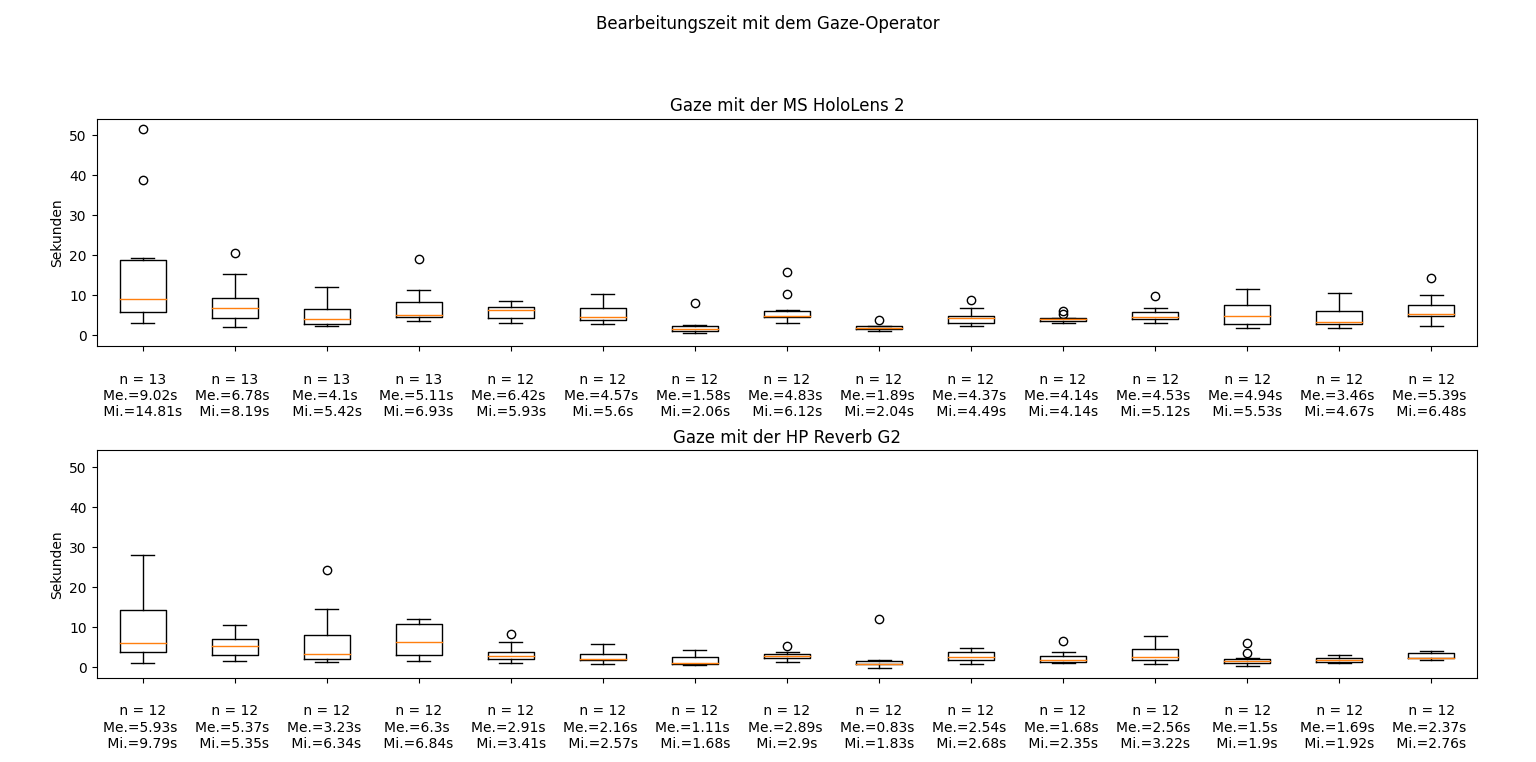
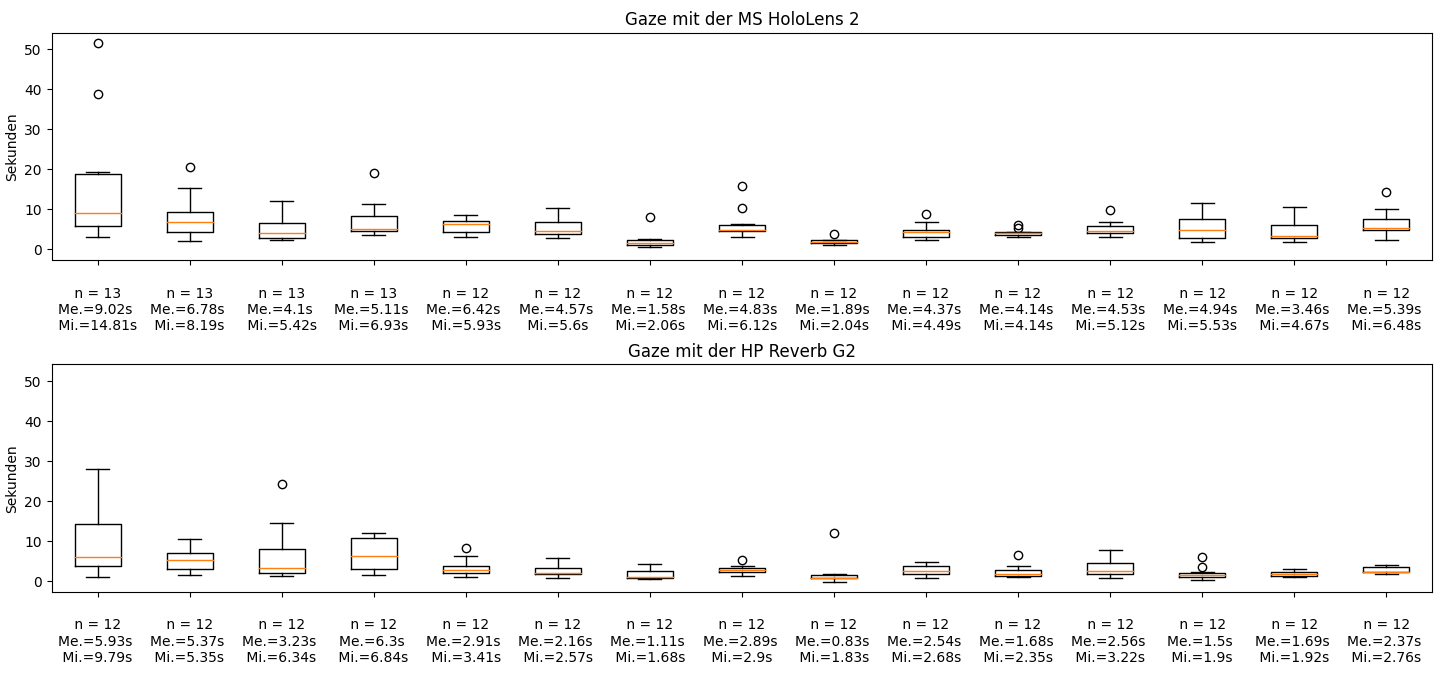
new entries for readme

diff --git a/ILM_WS202223/scene_Gaze/MQ_gaze_Times.py b/ILM_WS202223/scene_Gaze/MQ_gaze_Times.py
@@ -87,17 +87,6 @@ def runAnalyzeGeneric(probands, sceneName, devices, hand, fromElement, toElement
     return allData
 
 
-def aggregateDataOneDimension(array):
-    lenArray = len(array)
-    print("Len array " + str(lenArray))
-    data = []
-
-    for i in range(0, lenArray):
-        for elem in array[i]:
-            data.append(elem)
-
-    return data;
-
 def aggregateData(array):
     lenArray = len(array)
     print("Len array " + str(lenArray))
@@ -174,55 +163,10 @@ def runAnalyzeElementSteps(probands, sceneName, devices, hand):
 # This is added so that many files can reuse the function get_database()
 def boxplotCap(valArray):
     return f'\n n = {len(valArray)} \n' \
-           f'Median ={round(statistics.median(valArray), 3)} s \n ' \
-           f'Mittelwert ={round(statistics.mean(valArray), 3)} s \n '\
-            f'S. Abw. = {round(statistics.stdev(valArray), 3)} s \n ' \
-            f'M. Abw. = {round(mean(valArray), 3)} s \n ' \
-           f'1Q = {round(np.percentile(valArray, 25), 3)} s \n' \
-           f'3Q = {round(np.percentile(valArray, 75), 3)} s ';
-
-
-def convertToFloat(arr):
-
-    arr = arr.get('values')
-
-    print(arr)
-
-    arr = list(arr)
-    lenArray = len(arr)
-
-    print(lenArray)
-
-    allValues = []
-
-    for e in range(0, lenArray):
-        floatValues = []
-
-        for elem in arr[e]:
-            floatValues.append(float(elem))
-
-        allValues.append(floatValues)
-
-    return allValues
-
-def setXTicks_param(valArray, descArray):
-    xtick = []
-    i = 0
-
-    # The descirption of fields
-    for elem in valArray:
-        s = boxplotCap(elem)
-        xtick.append(descArray[i] + "\n" + s)
-        i = i + 1
-
-    lenVA = len(valArray)
-
-    # First Parameter the number of fields
-    elements = []
-    for elem in range(0, lenVA):
-        elements.append((elem + 1))
-
-    return (elements, xtick)
+           f'Me.={round(statistics.median(valArray), 3)} s \n ' \
+           f'Mi.={round(statistics.mean(valArray), 3)} s \n ';
+    # f'S. Abweichung = {round(statistics.stdev(valArray), 3)} s \n ' \
+    # f'M. Abweichung = {round(mean(valArray), 3)} s \n ';
 
 
 if __name__ == "__main__":
@@ -230,98 +174,66 @@ if __name__ == "__main__":
     dbname = get_database()
 
     col = dbname["uwp"]
-    tresor = dbname["tresor"]
 
     probands = ['A01', 'A02', 'A03', 'A05', 'A06', 'A07', 'A08', 'A09', 'A10', 'A11', 'A12',
                 'A13', 'A14', 'A15', 'A16', 'A17', 'A18',
                 'A19', 'A20', 'A21', 'A22', 'A23', 'A24', 'A25', 'A26', 'A27', 'A28']
+    print(probands)
 
     sceneName = 'ILM_Gaze'
     devices = ['HPG2']
     hand = 'Generic'
-    # sceneGaze_HPG2 = runAnalyzeElementSteps(probands, sceneName, devices, hand)
-    sceneGaze_HPG2 = tresor.find_one({'name': 'Gaze_UWP_HPG2'})
-    #print(sceneGaze_HPG2.get('values'))
-    sceneGaze_HPG2 = convertToFloat(sceneGaze_HPG2)
+    sceneGaze_HPG2 = runAnalyzeElementSteps(probands, sceneName, devices, hand)
+    writeToDb('Gaze_UWP_HPG2', sceneGaze_HPG2)
 
-    print("Länge")
-    print(len(sceneGaze_HPG2))
-
-    sceneGaze_HPG2_first = [sceneGaze_HPG2[0], sceneGaze_HPG2[1]]
-    sceneGaze_HPG2_second = []
-
-    for e in range(2, len(sceneGaze_HPG2)):
-        sceneGaze_HPG2_second.append(sceneGaze_HPG2[e])
-
-
-
-    sceneGaze_HPG2_first = aggregateData(sceneGaze_HPG2_first)
-    sceneGaze_HPG2_second = aggregateData(sceneGaze_HPG2_second)
-
-    print("second")
-    print(sceneGaze_HPG2_second)
-
-    writeToDb("Gaze_UWP_HPG2_first", sceneGaze_HPG2_first)
-
-    writeToDb("Gaze_UWP_HPG2_second", sceneGaze_HPG2_second)
-
-    box_sceneGaze_HPG2 = [sceneGaze_HPG2_first, sceneGaze_HPG2_second]
-
-
+    sceneName = 'ILM_Gaze'
     devices = ['HL2']
 
-    # sceneGaze_HL2 = runAnalyzeElementSteps(probands, sceneName, devices, hand)
-    sceneGaze_HL2 = tresor.find_one({'name': 'Gaze_UWP_HL2'})
-    sceneGaze_HL2 = convertToFloat(sceneGaze_HL2)
+    sceneGaze_HL2 = runAnalyzeElementSteps(probands, sceneName, devices, hand)
+    writeToDb('Gaze_UWP_HL2', sceneGaze_HL2)
 
-    sceneGaze_HL2_first = [sceneGaze_HL2[0], sceneGaze_HL2[1]]
-    sceneGaze_HL2_second = []
+    print(sceneGaze_HL2)
+    allTimes = sceneGaze_HPG2
 
-    for e in range(2, len(sceneGaze_HL2)):
-        sceneGaze_HL2_second.append(sceneGaze_HL2[e])
+    fig, axs = plt.subplots(2, 1, figsize=(10, 8))
 
-    # Flatten the data
-    sceneGaze_HL2_first = aggregateData(sceneGaze_HL2_first)
-    sceneGaze_HL2_second = aggregateData(sceneGaze_HL2_second)
-
-    writeToDb("Gaze_UWP_HL2_first", sceneGaze_HL2_first)
-    writeToDb("Gaze_UWP_HL2_second", sceneGaze_HL2_second)
-
-    box_sceneGaze_HL2 = [sceneGaze_HL2_first, sceneGaze_HL2_second]
-
-
-    ### Graphic
-    fig, axs = plt.subplots(1, 2, figsize=(10, 8))
-
-    fig.suptitle('Bearbeitungszeit mit dem Gaze-Operator')
+    fig.suptitle('Bearbeitungszeit der Buttons')
     # ax = fig.add_axes(['Rechte Hand', 'Linke Hand'])
-    axs[0].violinplot(box_sceneGaze_HPG2)
-    axs[1].violinplot(box_sceneGaze_HL2)
+    axs[0].boxplot(sceneGaze_HL2, notch=False)
+    axs[1].boxplot(sceneGaze_HPG2, notch=False)
     axs[1].sharey(axs[0])
 
     axs[0].set(ylabel='Sekunden')
-    # axs[1].set(ylabel='Sekunden')
+    axs[1].set(ylabel='Sekunden')
 
-    xtick_HPG2 = []
+    xtick_HL = []
 
-    len2 = len(sceneGaze_HPG2)
+    for elem in sceneGaze_HL2:
+        s = boxplotCap(elem)
 
-    for elem2 in sceneGaze_HPG2:
-        s = boxplotCap(elem2)
-        xtick_HPG2.append(s)
-
-    descArrayXTicks = ["Erste S.", "Nachgelagerte S."]
-
-    (elemHL, xHL) = setXTicks_param(box_sceneGaze_HL2, descArrayXTicks)
-    (elemHPG2, xHPG2) = setXTicks_param(box_sceneGaze_HPG2, descArrayXTicks)
-
-
+        xtick_HL.append(s)
 
     axs[0].set_title('Gaze mit der MS HoloLens 2')
-    axs[0].set_xticks(elemHL, xHL)
+    axs[0].set_xticks(xtick_HL)
 
     axs[1].set_title('Gaze mit der HP Reverb G2')
-    axs[1].set_xticks(elemHPG2, xHPG2)
+
+    '''
+
+     axs[0].set_xticks([1, 2, 3], ["Button 1" + boxplotCap(allTimes[0]),
+                                           "Checkbox 1" + boxplotCap(allTimes[1]),
+                                           "Button 2" + boxplotCap(allTimes[2])])
+
+    axs[0, 1].set_title('2. Szene: Linke Hand - HPG2')
+    axs[0, 1].set_xticks([1, 2, 3], ["Button 1" + boxplotCap(allTimes[0]),
+                                        "Checkbox 1" + boxplotCap(allTimes[1]),
+                                        "Button 2" + boxplotCap(allTimes[2])])
+
+    axs[1, 1].set_title('2. Szene: Linke Hand - HL2')
+    axs[1, 1].set_xticks([1, 2, 3], ["Button 1" + boxplotCap(allTimes[0]),
+                                              "Checkbox 1" + boxplotCap(allTimes[1]),
+                                              "Button 2" + boxplotCap(allTimes[2])])
+    '''
 
     plt.show()
 

diff --git a/ILM_WS202223/README.md b/ILM_WS202223/README.md
@@ -3,27 +3,104 @@
 This Parser is for proceeding the Log Files of the ILM project.
 
 ## Scripts
-### test.py
+
+### Standart Queries
+
+#### UWP_gaze_Times.py
+Getting all execution times of the `Gaze Operator`.
+
+#### UWP_gaze_Times_db.py
+
+Getting the data from above from the db.
+
+#### UWP_gaze_Times_db_aggr_db.py
+Aggregates the data from above by retrieving it from the db.
+
+####  test.py
 Testing the single scripts for VR
 
 
-## Write Deltas to Database 
-Name of the database is tresor
+
+## Universal Tools
+
+### Write Deltas to Database 
+This is increasing the query times tremendously.
+Name of the database is `tresor`. 
+First it proves if there is any similar dataset already existing. If not it will create a new tuple.
 
 ```
 def writeToDb(name, value):
     dbname = get_database()
     tresor = dbname["tresor"]
 
-    dto = {"name": name, "value": value}
-    tresor.insert_one(dto)
+    dto = tresor.find({"name": name})
+    dto = list(dto)
+
+    print("Dto")
+    print(dto)
+
+    if (len(dto) > 0):
+        dto = {"name": name}
+        newvalues = {"$set": {"values": value}}
+        tresor.update_one(dto, newvalues)
+        print("Update element")
+    else:
+        dto = {"name": name, "values": value}
+        tresor.insert_one(dto)
+        print("New element")
+
 ```
+
+### Converting data from the db
+Data from db is retrieved as strings. This method turns it into floats.
+
+```
+def convertToFloat(arr):
+
+    arr = arr.get('values')
+
+    print(arr)
+
+    arr = list(arr)
+    lenArray = len(arr)
+
+    print(lenArray)
+
+    allValues = []
+
+    for e in range(0, lenArray):
+        floatValues = []
+
+        for elem in arr[e]:
+            floatValues.append(float(elem))
+
+        allValues.append(floatValues)
+
+    return allValues
+```
+
+
+
+
+### Flatten the data 
+Having a 2D array it turns it into 1D array.
+```
+def aggregateData(array):
+    lenArray = len(array)
+    print("Len array " + str(lenArray))
+    data = []
+
+    for i in range(0, lenArray):
+        for elem in array[i]:
+            data.append(elem)
+
+    return data;
+ ```
 
 ### ILM_logReaderVR.py
 Parser dedicated for ILM log files which are slightly different to the previous from UGIW
 
 
-## Universal Tools
 
 ### Boxplot
 Giving caption with stat values to the boxplots
